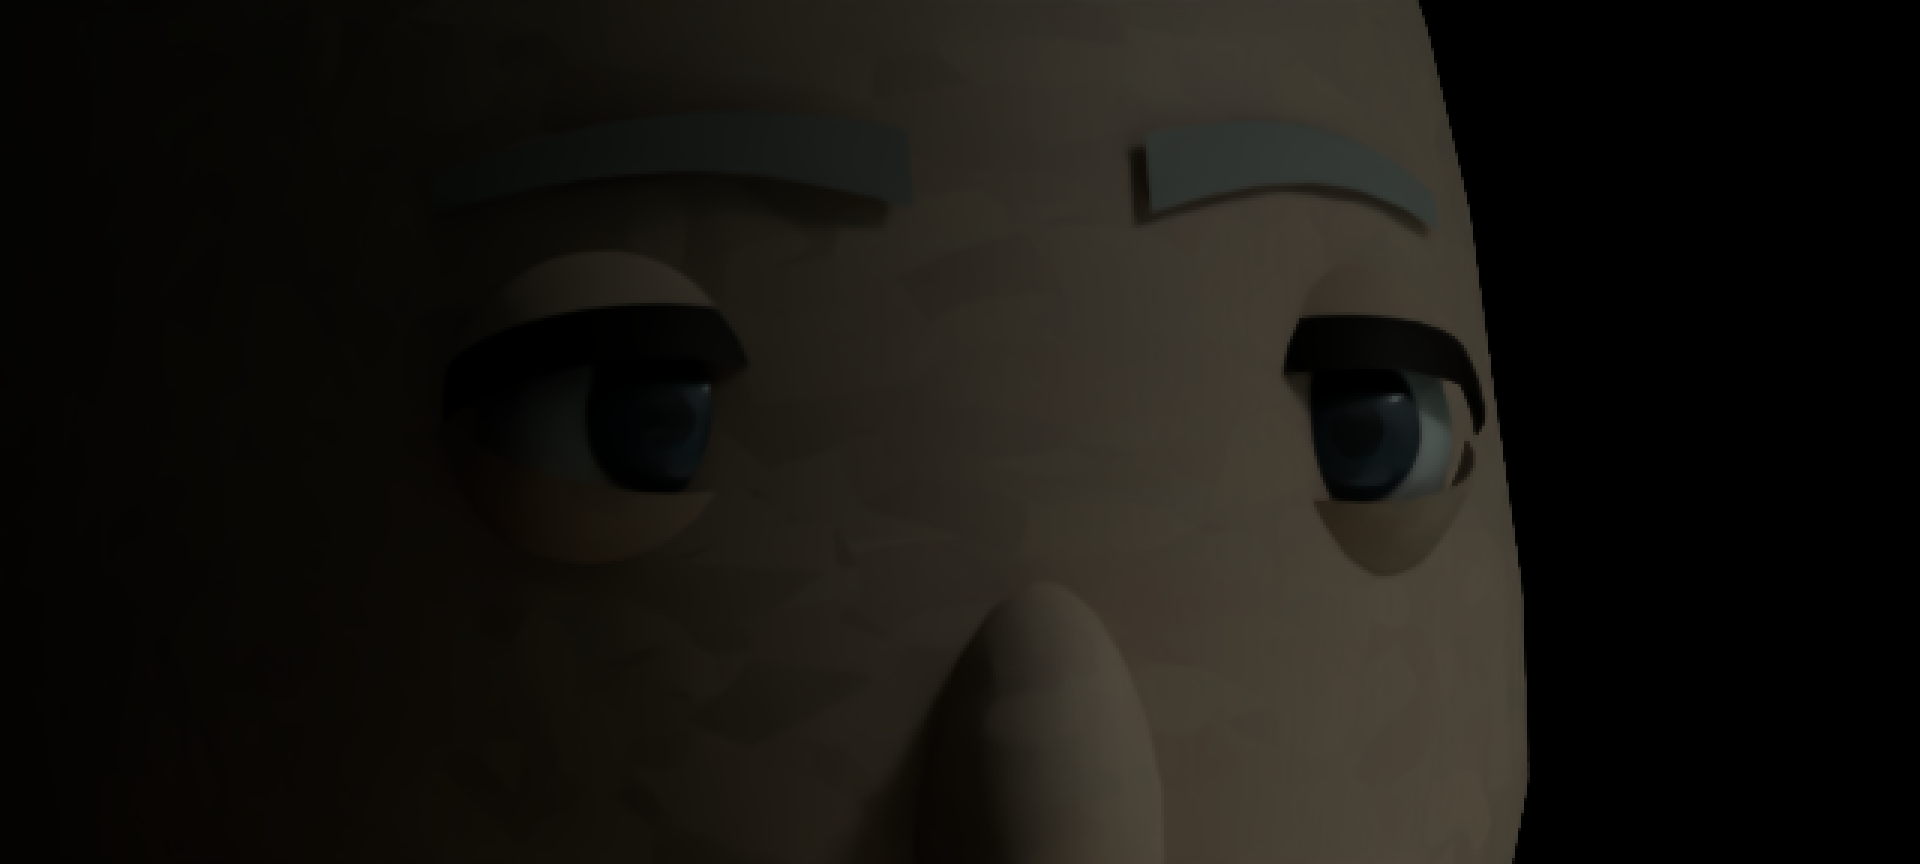
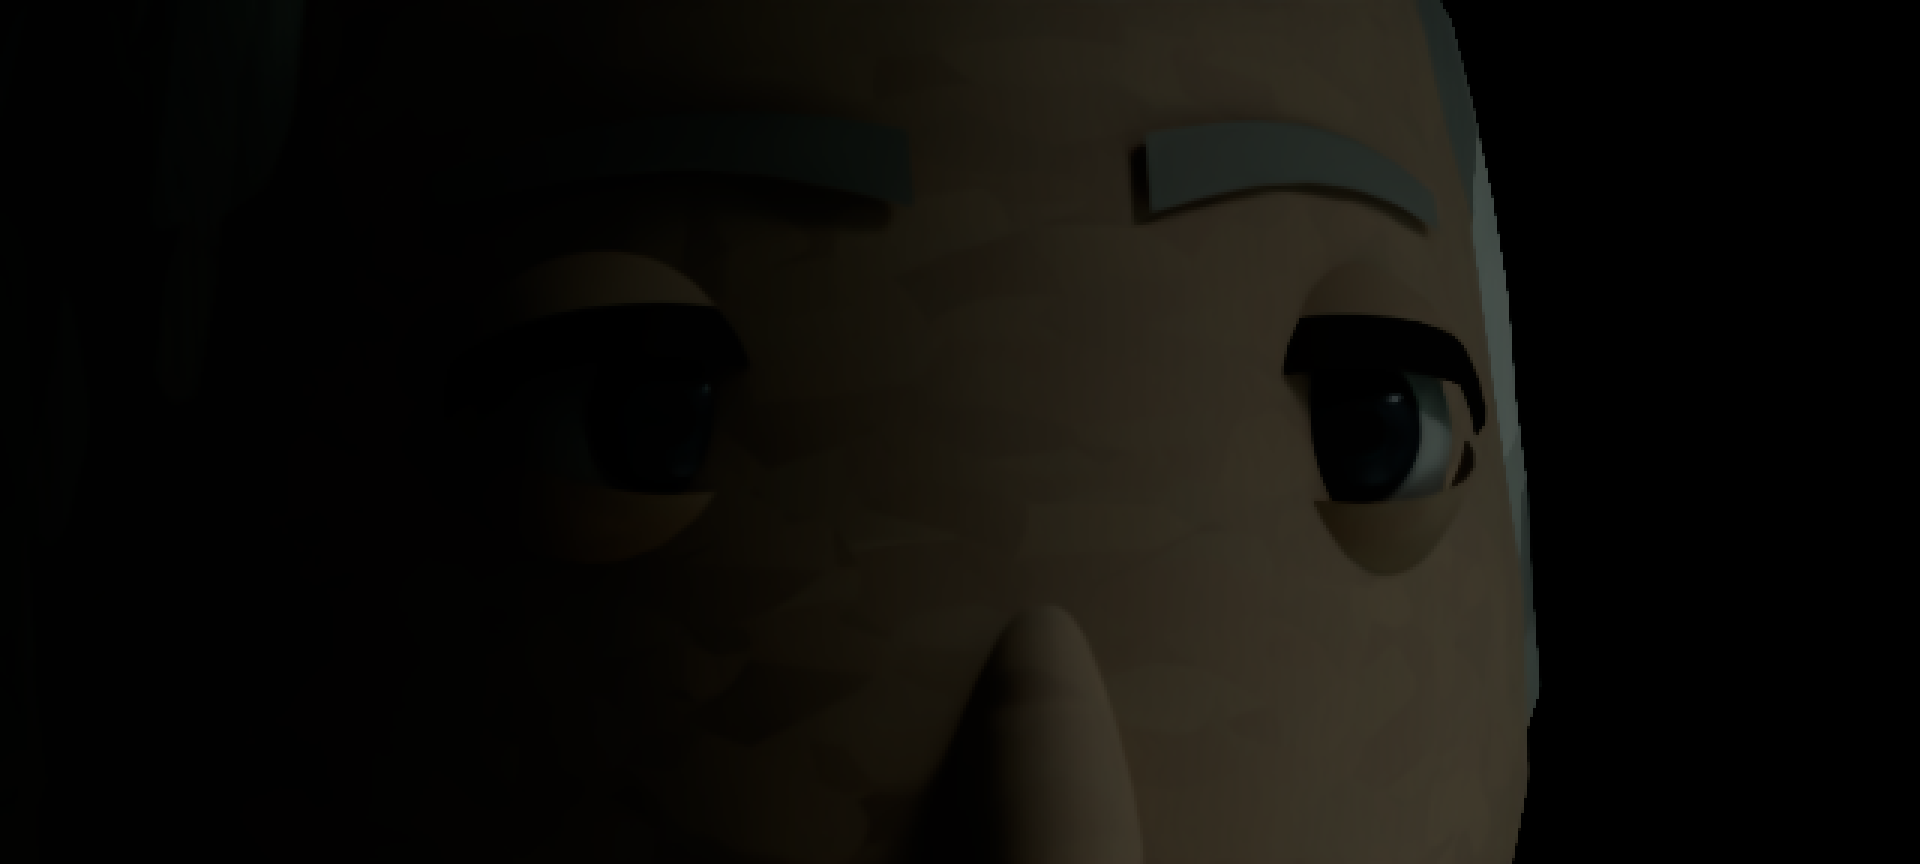
cg: final eye-check crops and report
Claude-Session: https://claude.ai/code/session_01W37kuL5PT7hmQjDY89K2ob

Changed region(s): [[0.7188, 0.0, 0.8125, 0.8125], [0.5312, 0.6875, 0.625, 1.0], [0.7188, 0.4375, 0.75, 0.5]]

diff --git a/film/cg/stills/checks/REPORT.md b/film/cg/stills/checks/REPORT.md
@@ -10,3 +10,11 @@ Generated by `film/cg/lookdev_checks.py`.
 | Designer palette chart (colour fidelity) | FAIL | palette_chart.png (Standard view, linear, asleep, card on side-A wall at y 8.6): rendered/expected ratio to laminate per swatch: set/laminate 1.000/1.000; set/ceiling 1.622/1.746; set/moquette 0.341/0.297; set/floor 0.214/0.182; THE_RED 0.272/0.320; noor/suit 0.149/0.109; noor/skin 0.502/0.518; noor/hair 0.084/0.027; kai/hoodie 0.499/0.466; kai/skin 1.141/1.176; bea/scrubs 0.121/0.077; bea/skin 0.179/0.144; walter/coat 0.667/0.657; walter/skin 1.217/1.272. Worst tolerance use 1.05 (<=1 passes: 15% relative or 0.05 absolute). Real wall vs card laminate: 1.03 (set and characters lit alike) |
 | L1 / 8d asleep frames identical | PASS | Shot 1 (asleep, locked, Pos A), painterly comp on, frames at 8 s and 20 s: max abs pixel difference = 0.000000 |
 | 8c catchlight row | PARTIAL | 8c_catchlights_noor_40mm.png (x4 crops; left 5 MIN all lit, right after 7.10). A catchlight from the overhead panels is present in both (P1-P2 stay lit); (Designer's face-rig eyes). Peak eye value 0.88 -> 0.88 |
+
+## Eye checks (`eye_checks.py`)
+
+| Check | Result | Detail |
+|---|---|---|
+| E1 P12 catchlight returns in Noor's eyes at 8.10 (shot 58, 75 mm) | PARTIAL (M4): catchlight shapes read on the rig corneas; P12's own return at 8.10 is measurable but sub-pixel at C75 | eyes_E1_noor_8.10_P12_return.png: frame 12191 / 12192 (P12 on, 110%) / 12204; 3870 crop pixels change by >5% (max 0.15) |
+| E2 Walter's lit-side catchlight, shot 53 | PASS | eyes_E2_walter_shot53.png at frame 10878 (P1-P2 lit, Walter under dark P3) |
+| E3 Bea eyes closed (F2): face read under BROWN and at the 7.10 edge | PASS under BROWN; 7.10 edge readable but low (M4, shot 49) | eyes_E3_bea_closed_brown_and_edge.png (left: cue 3 hold, Pos C 50 mm; right: after 7.10, shot 49) |
